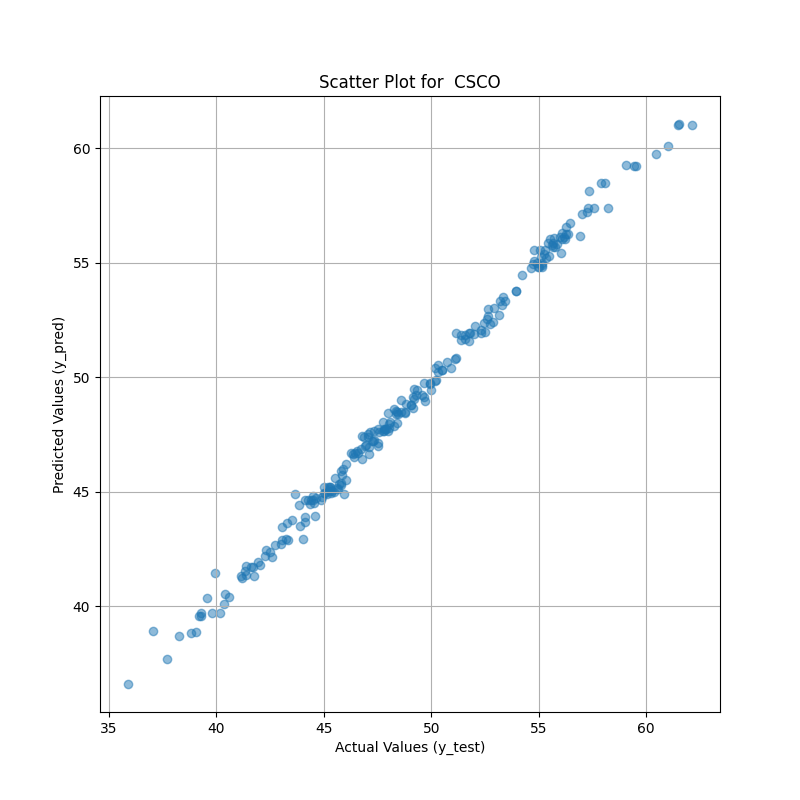
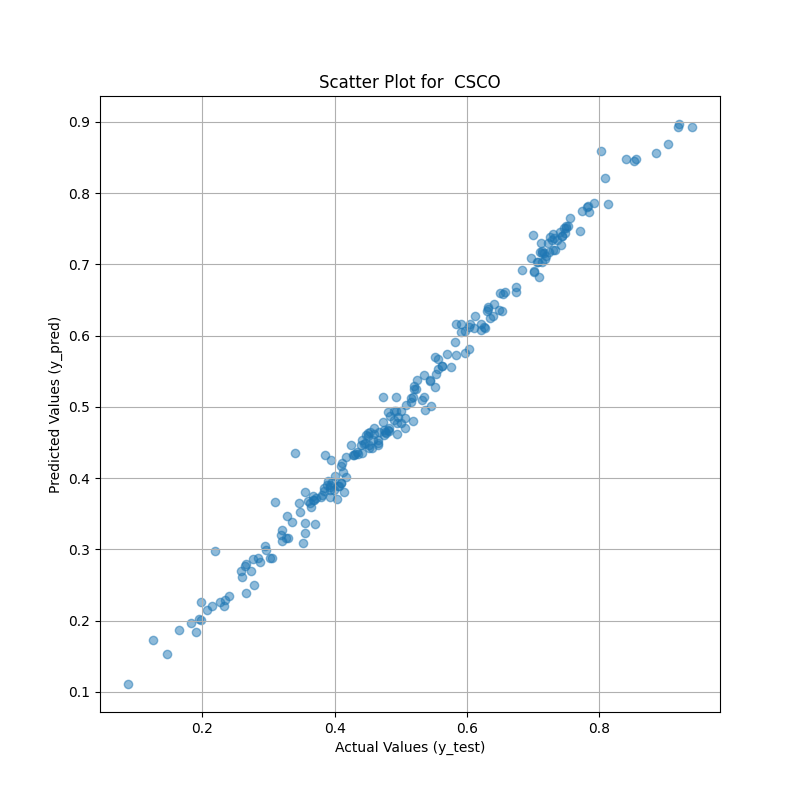
final hopefully

diff --git a/ml.py b/ml.py
@@ -1,5 +1,7 @@
 import warnings
 
+from sklearn.preprocessing import MinMaxScaler
+
 # suppresses warnings
 warnings.filterwarnings("ignore")
 
@@ -89,7 +91,10 @@ def feature_eng(ds_name):
 
     # drops na values (caused by values calculated over a window of time)
     df = df.dropna()
-
+    #scaling columns
+    scaler = MinMaxScaler()
+    numerical_cols = ['Close', 'Volume', 'RSI', 'OBV', 'TP', 'sma14', 'sma30', 'sma100', 'mad', 'CCI', 'ema_12', 'ema_26', 'macd' ]
+    df[numerical_cols] = scaler.fit_transform(df[numerical_cols])
 
     return df
 
@@ -190,6 +195,8 @@ def modelling(dataset):
     # close price is target value
     X = df.drop('Close', axis=1)
     Y = df['Close']
+
+
 
     # splitting dataset for feature selection
     X_train, X_test, y_train, y_test = train_test_split(X, Y, test_size=0.2, random_state=42)
